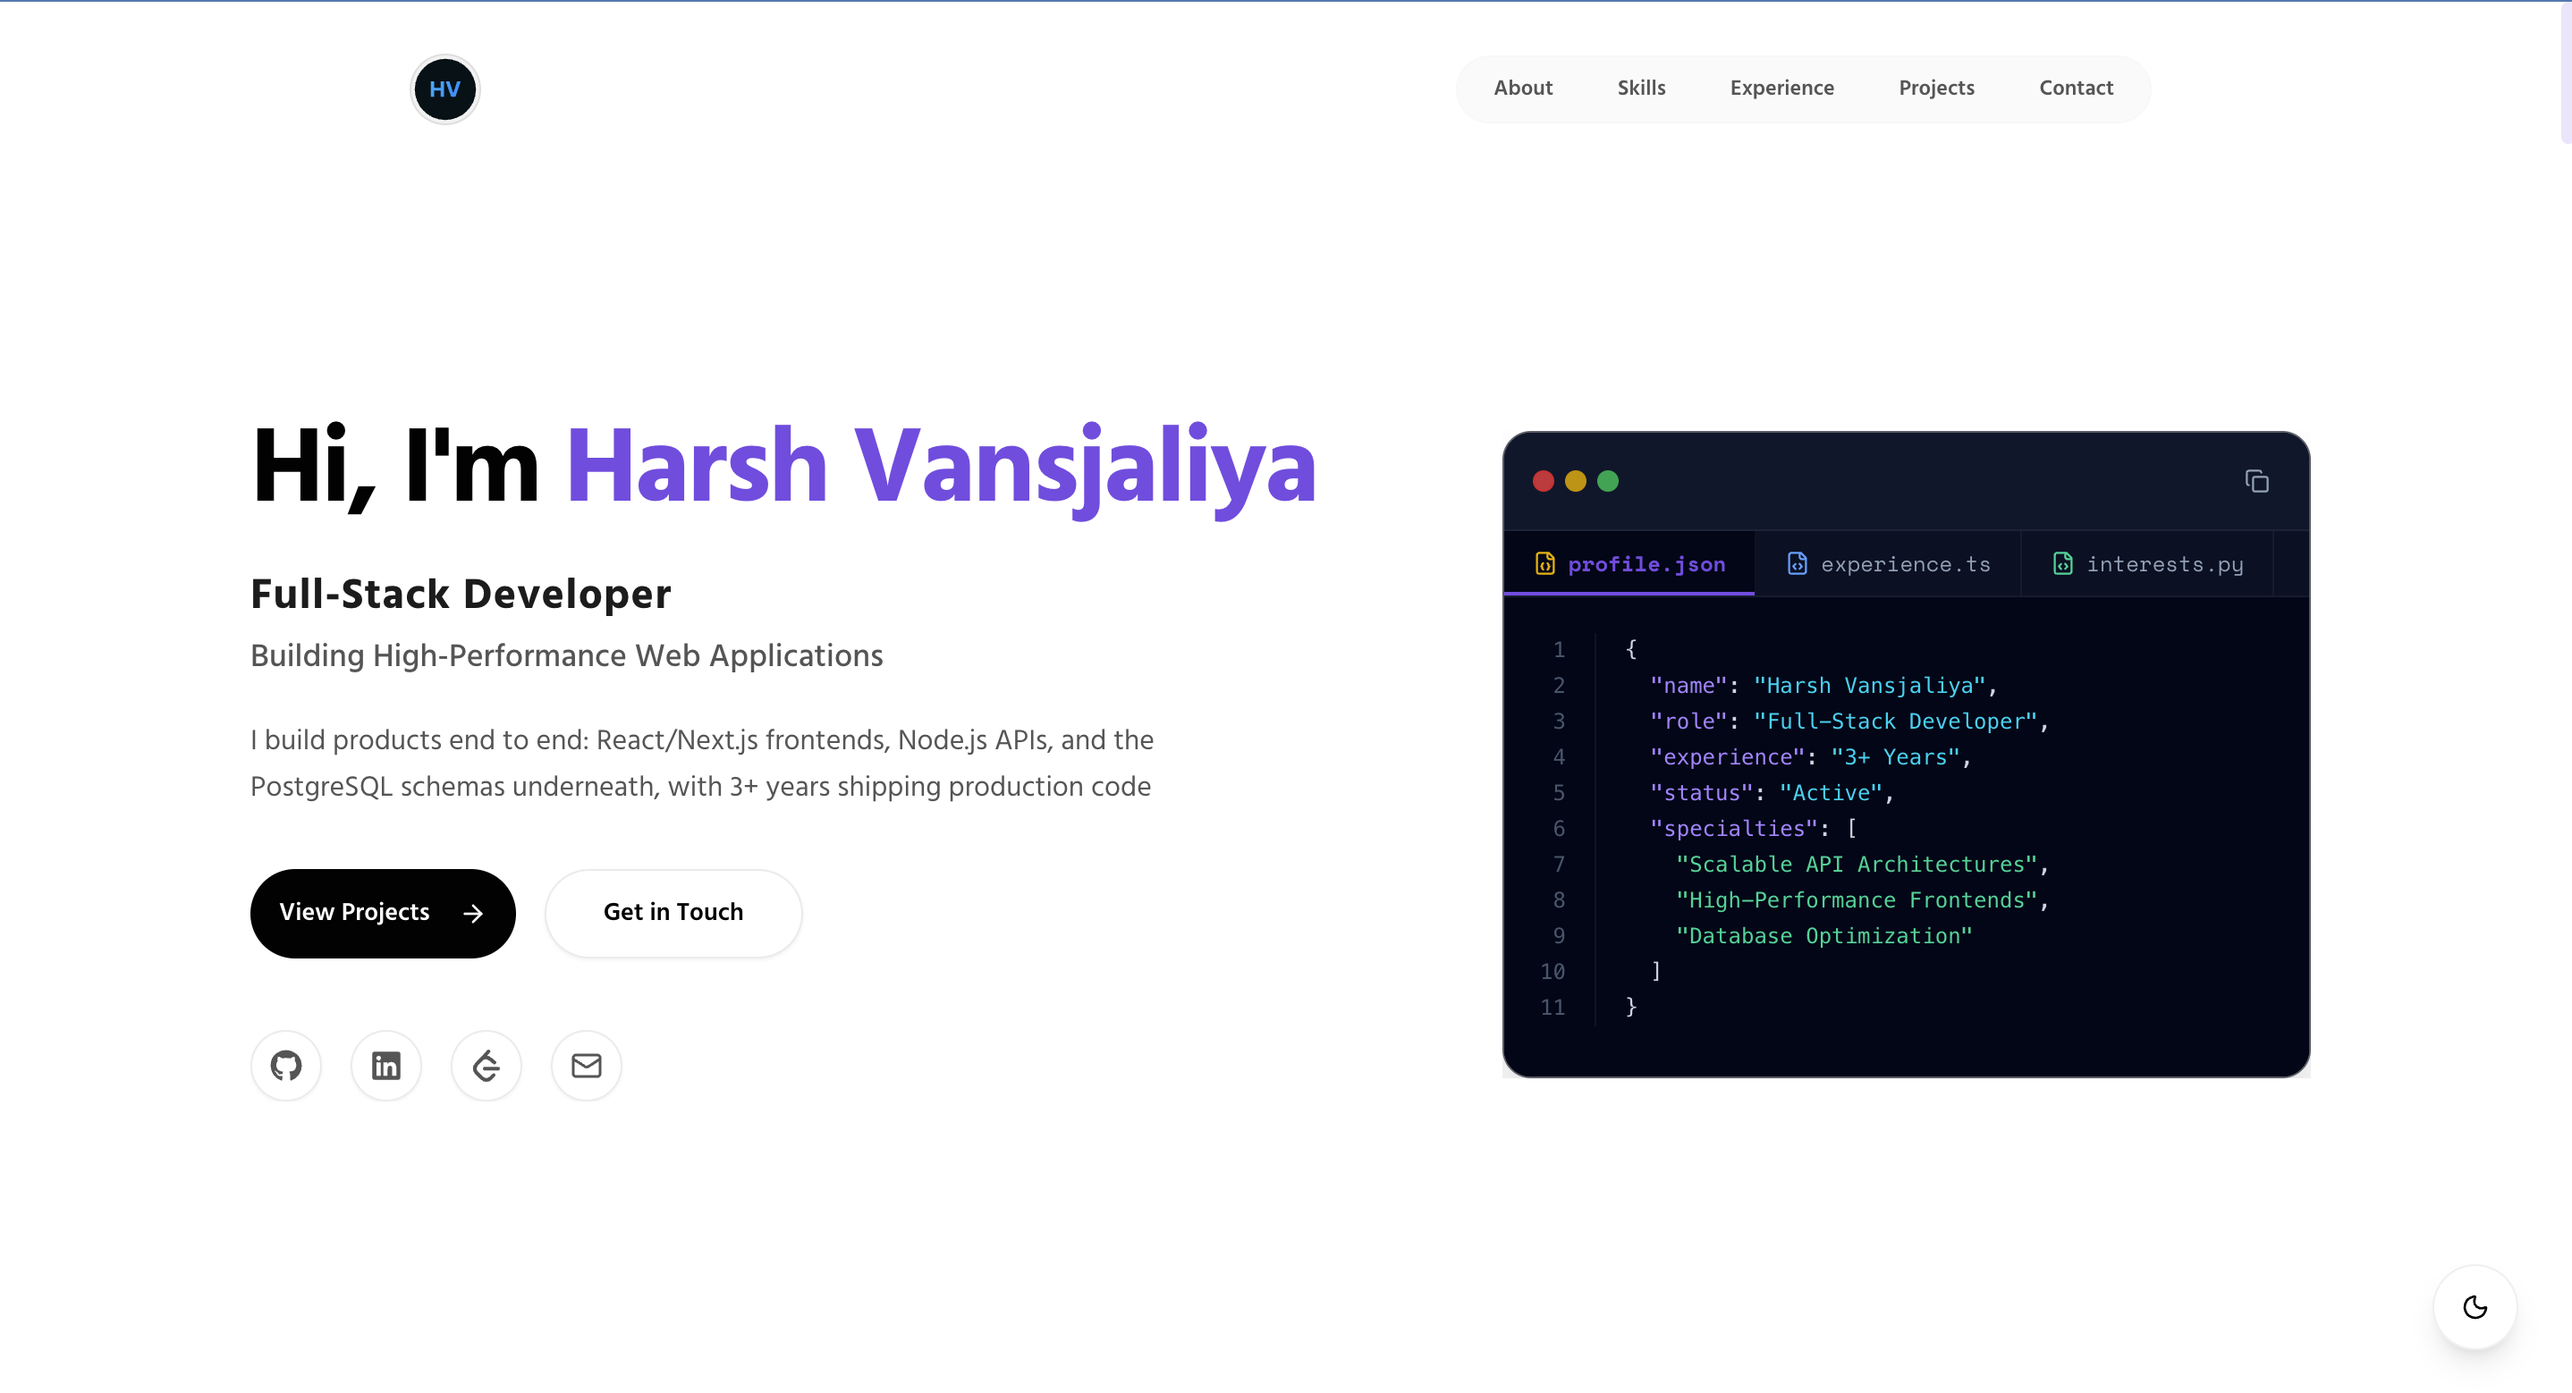
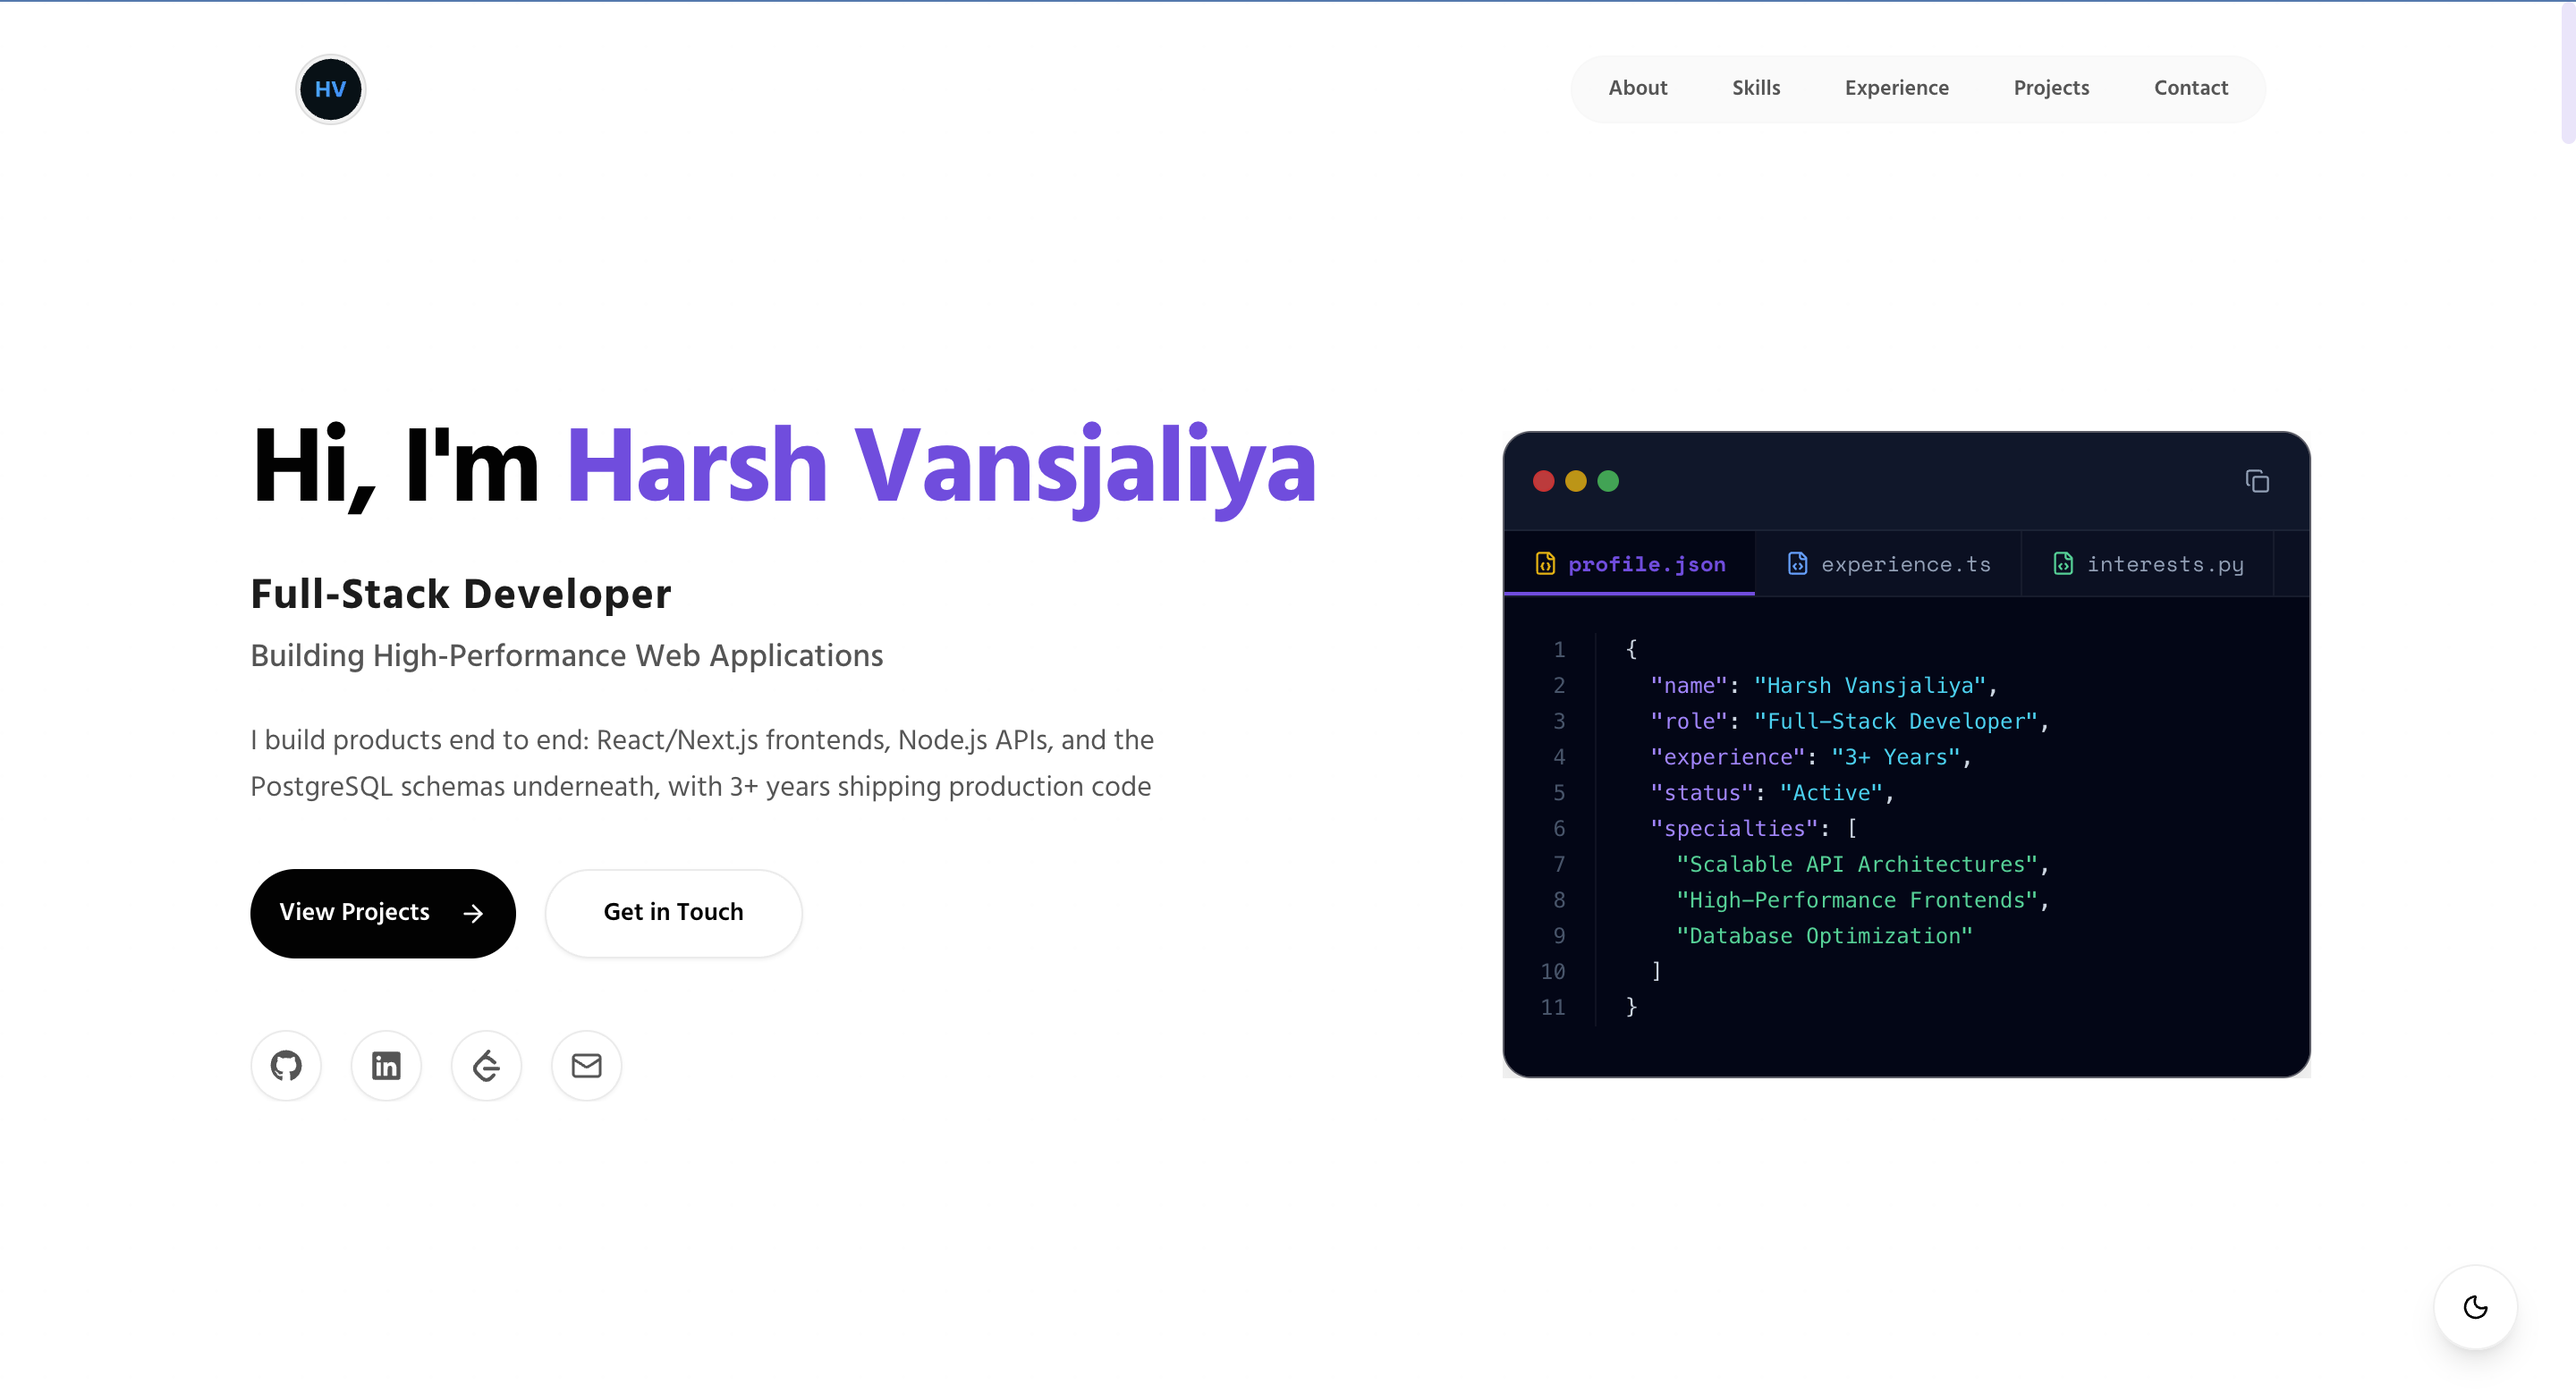
feat: update layout dimensions for contact section and navbar, enhance preview image

diff --git a/components/navbar.tsx b/components/navbar.tsx
@@ -95,7 +95,7 @@ export const Navbar = () => {
   return (
     <header className="fixed top-0 left-0 w-full z-50 flex justify-center px-4 py-4 pointer-events-none">
       <div
-        className={`w-full max-w-5xl pointer-events-auto rounded-full transition-all duration-300 ${
+        className={`w-full max-w-6xl pointer-events-auto rounded-full transition-all duration-300 ${
           isScrolled
             ? "bg-background/70 backdrop-blur-md border border-border/40 shadow-lg px-6 py-2"
             : "bg-transparent border border-transparent px-6 py-3"

diff --git a/components/contact.tsx b/components/contact.tsx
@@ -101,7 +101,7 @@ export const Contact = () => {
       id="contact"
       className="py-24 px-4 sm:px-6 lg:px-8 relative overflow-hidden scroll-mt-24"
     >
-      <div className="max-w-5xl mx-auto relative z-10">
+      <div className="max-w-6xl mx-auto relative z-10">
         {/* Section Header */}
         <SectionHeading
           index="05 — Contact"
